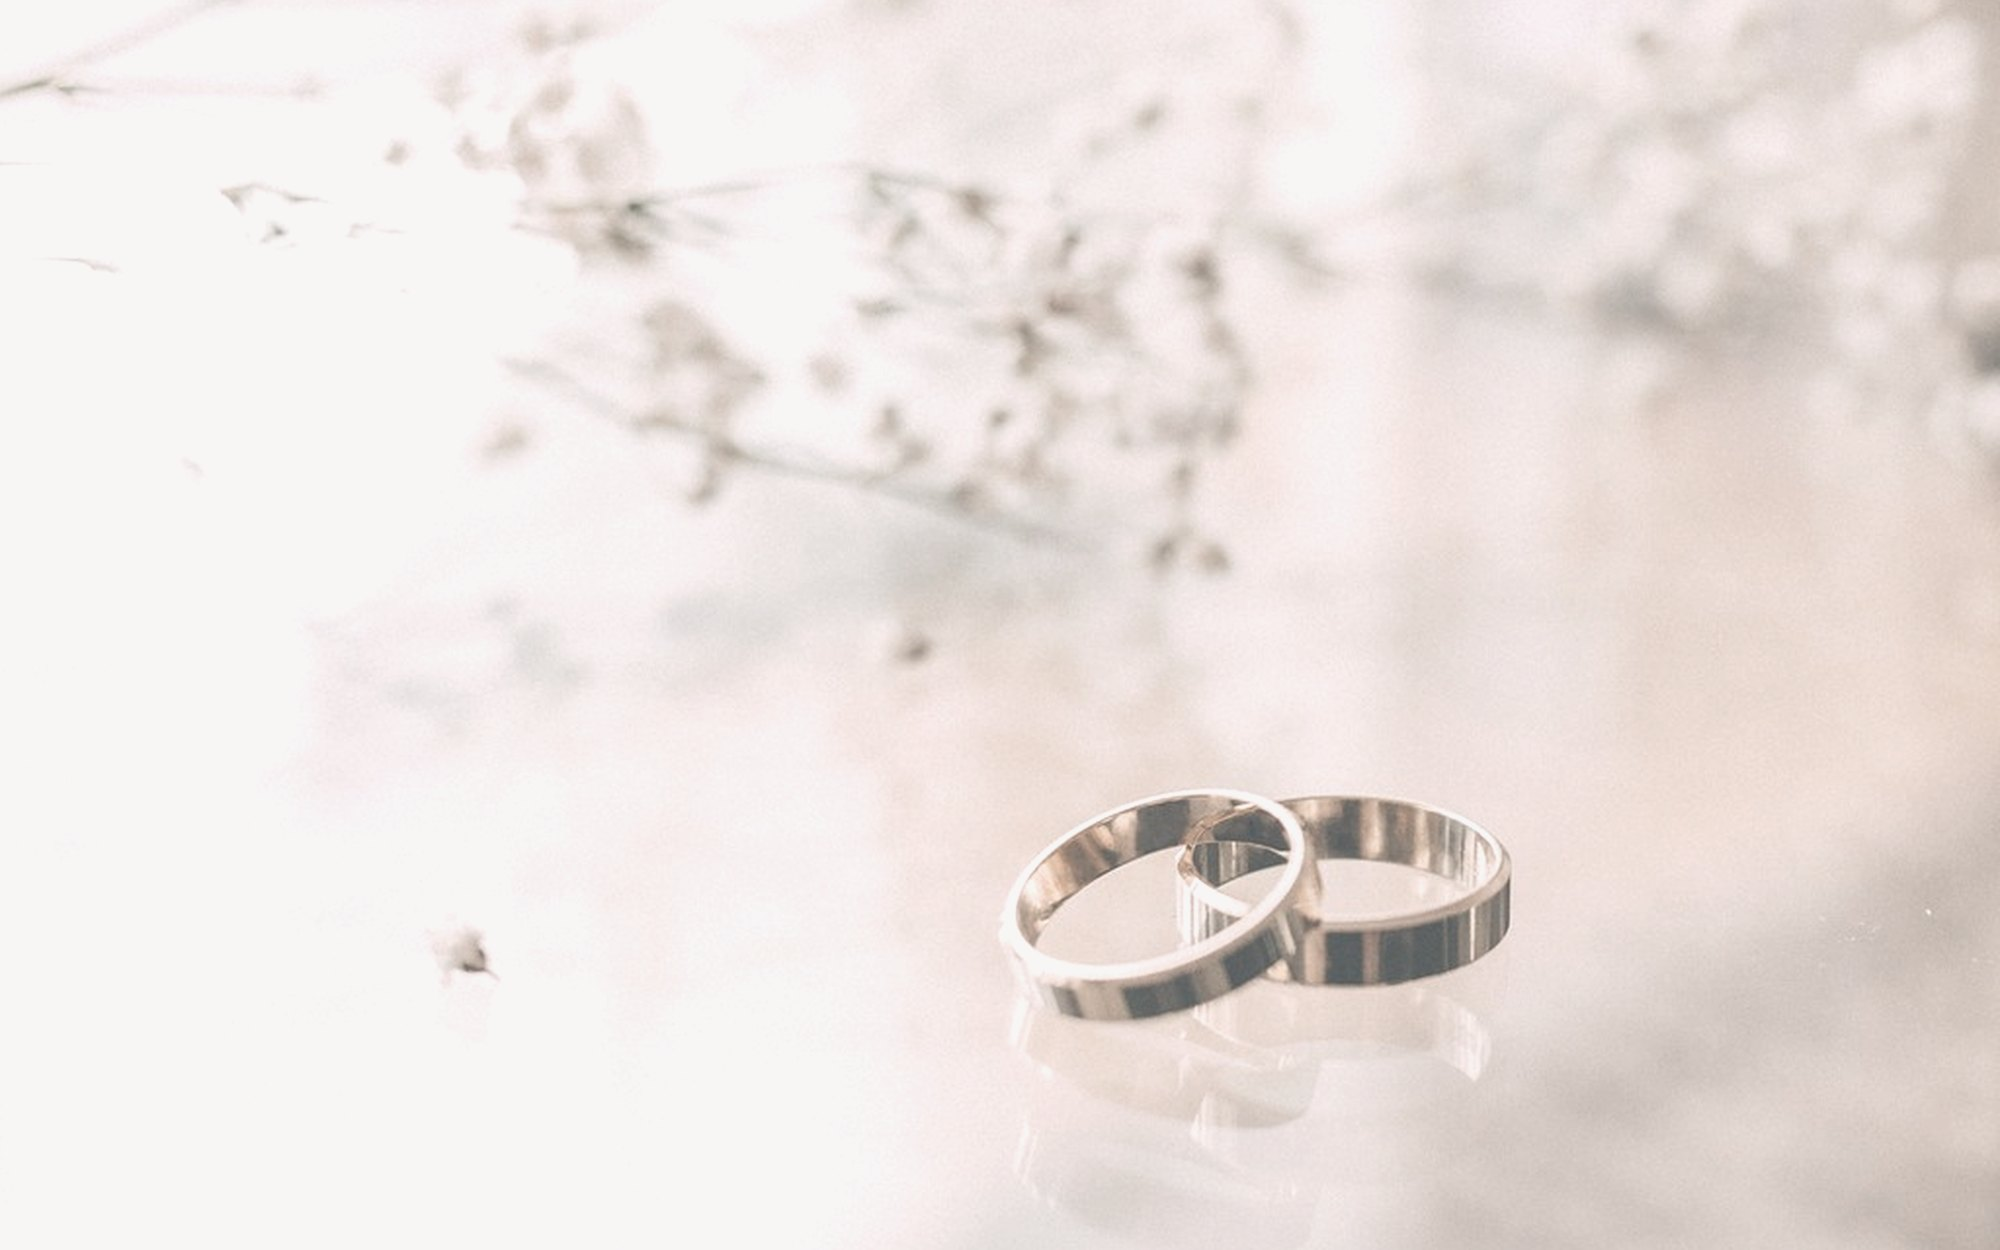
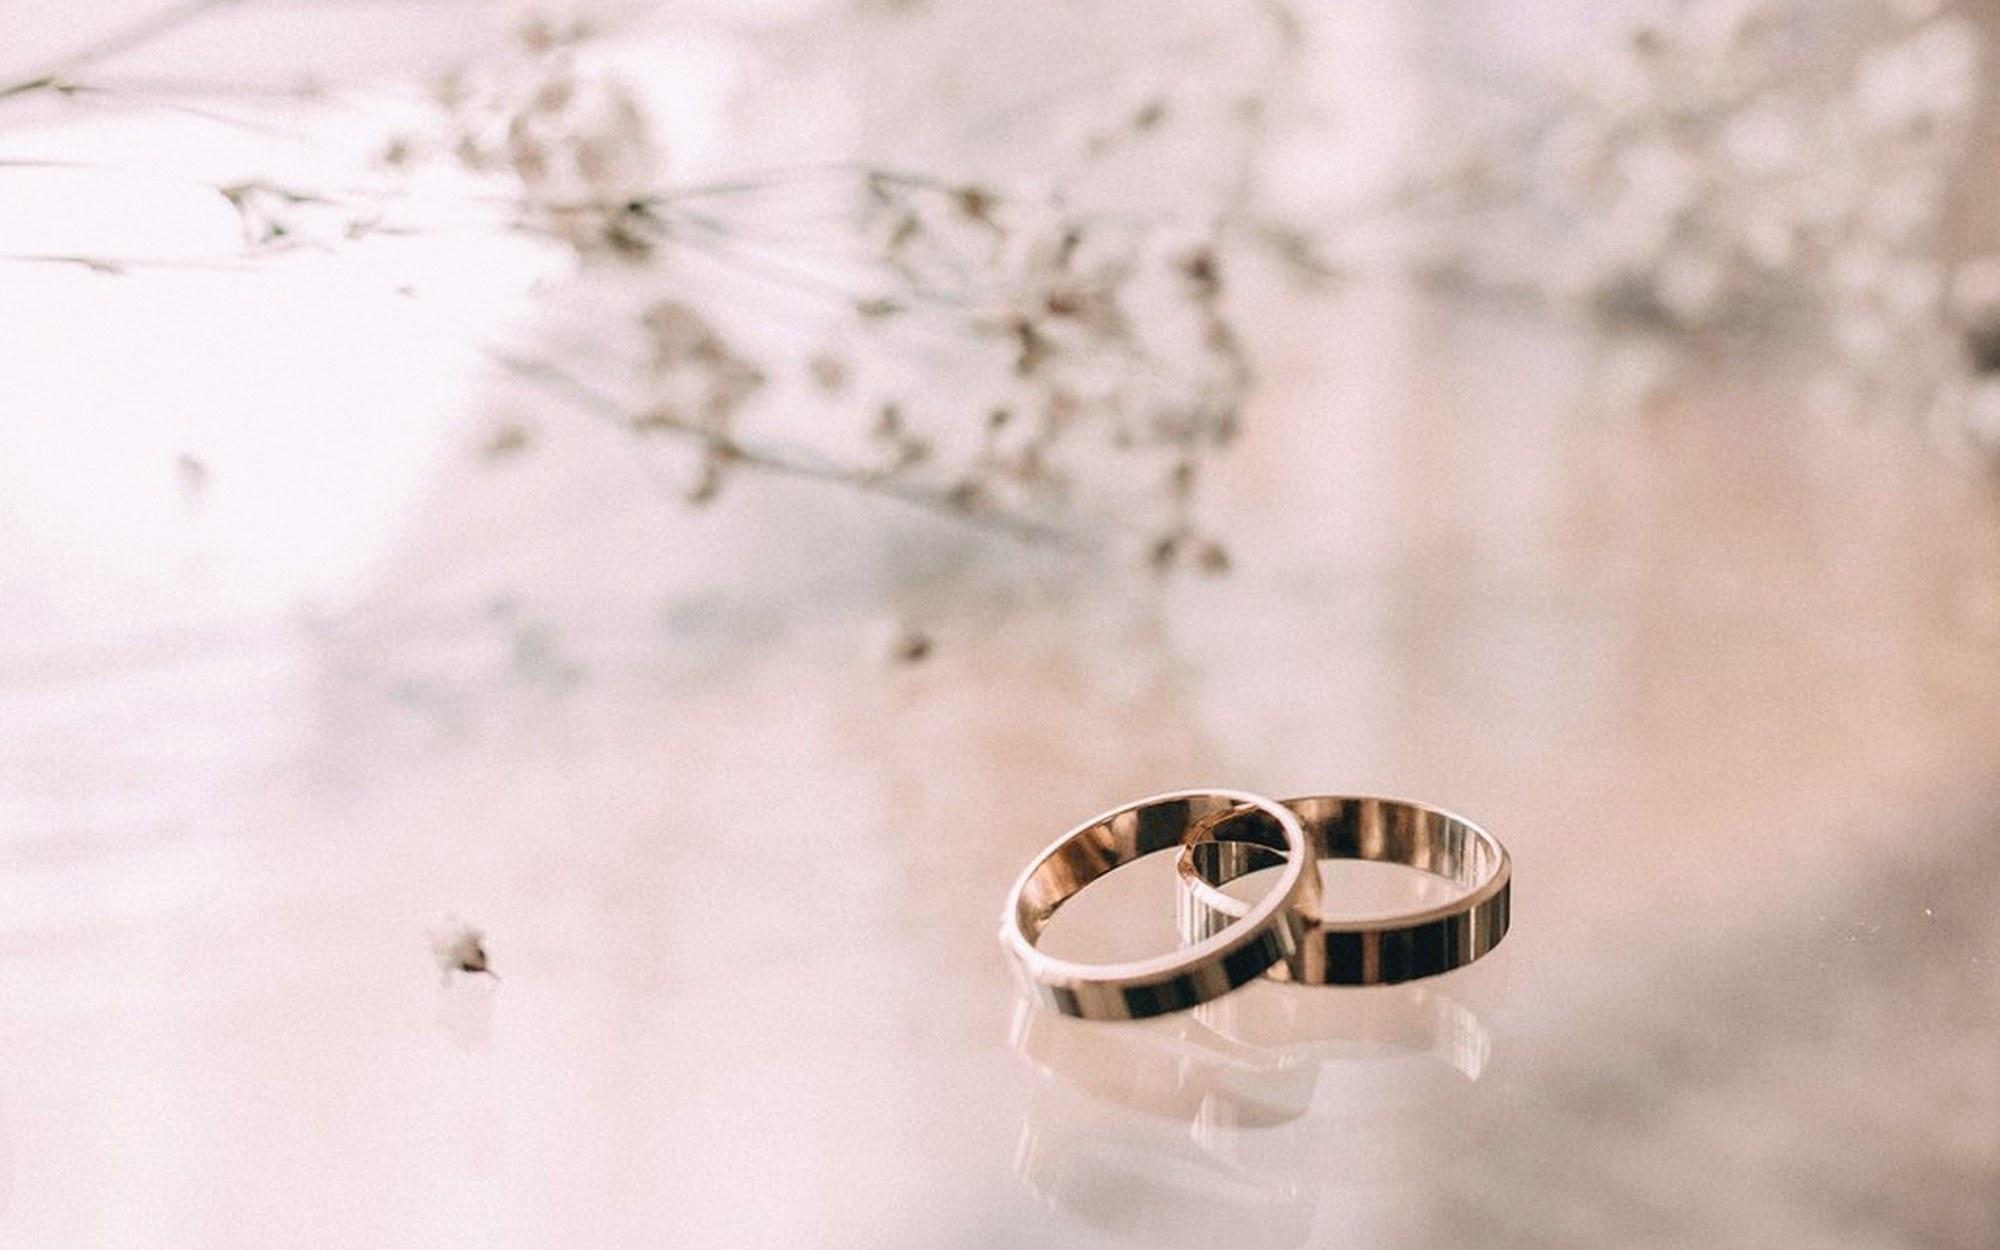
финальный дизайн светлой темы

diff --git a/src/components/pages/home/DressCodeSection.vue b/src/components/pages/home/DressCodeSection.vue
@@ -132,13 +132,8 @@ import dressCode from '@/data/dressCode';
   margin: 28px 0 0;
   padding: 0;
   display: grid;
-  grid-template-columns: repeat(7, minmax(0, 1fr));
-  gap: 6px;
-
-  @media all and (max-width: 420px) {
-    grid-template-columns: repeat(4, minmax(0, 1fr));
-    gap: 10px;
-  }
+  grid-template-columns: repeat(3, minmax(0, 1fr));
+  gap: 16px;
 }
 
 .dress-code__swatch {
@@ -150,20 +145,16 @@ import dressCode from '@/data/dressCode';
 
 .dress-code__chip {
   display: block;
-  height: clamp(86px, 13vw, 128px);
-  // На светлом фоне пастельные образцы почти сливаются с карточкой,
-  // поэтому им нужен заметный контур.
-  border: 1px solid rgba(63, 54, 64, 0.18);
+  aspect-ratio: 1;
+  // Оттенки намеренно блёклые, поэтому форму квадрата держит контур.
+  border: 1px solid rgba(63, 54, 64, 0.16);
 }
 
 .dress-code__name {
-  font-size: 9px;
+  font-size: 9.5px;
+  letter-spacing: 0.04em;
   color: color.$body-text;
   text-align: center;
-  // Длинные названия («Champagne») чуть выходят в межколоночный зазор —
-  // это лучше, чем обрезать их многоточием.
-  white-space: nowrap;
-  overflow: visible;
 }
 
 .dress-code__hint {

diff --git a/src/components/pages/home/HeroSection.vue b/src/components/pages/home/HeroSection.vue
@@ -98,14 +98,15 @@ const { parts } = useCountdown(
   display: block;
 }
 
-// Кремовая вуаль поверх фотографии: снимок остаётся узнаваемым,
-// но уходит на второй план, и тёмная типографика читается поверх него.
+// Вуаль сфокусирована на центре, где лежит текст: под именами она плотная,
+// а к краям сходит почти на нет — так фотография остаётся яркой,
+// но тёмная типографика всё равно читается.
 .hero__veil {
   position: absolute;
   inset: 0;
   background:
-    radial-gradient(ellipse at 50% 46%, rgba(250, 247, 244, 0.82) 0%, rgba(250, 247, 244, 0.42) 58%, rgba(250, 247, 244, 0.2) 100%),
-    linear-gradient(180deg, rgba(250, 247, 244, 0.72) 0%, rgba(250, 247, 244, 0.32) 42%, rgba(246, 236, 232, 0.78) 100%);
+    radial-gradient(ellipse 64% 54% at 50% 45%, rgba(250, 247, 244, 0.82) 0%, rgba(250, 247, 244, 0.46) 58%, rgba(250, 247, 244, 0) 100%),
+    linear-gradient(180deg, rgba(250, 247, 244, 0.46) 0%, rgba(250, 247, 244, 0.06) 40%, rgba(246, 236, 232, 0.44) 100%);
 }
 
 .hero__chapter,

diff --git a/src/components/pages/home/VenueSection.vue b/src/components/pages/home/VenueSection.vue
@@ -111,15 +111,15 @@ const copyAddress = async () => {
   height: 100%;
   object-fit: cover;
   display: block;
-  filter: saturate(0.38) brightness(1.0) contrast(0.96);
+  filter: saturate(0.72) brightness(0.98) contrast(1.04);
 }
 
 .venue__veil {
   position: absolute;
   inset: 0;
   background:
-    radial-gradient(ellipse at 34% 42%, rgba(250, 247, 244, 0.7) 0%, rgba(250, 247, 244, 0.34) 58%, rgba(250, 247, 244, 0.12) 100%),
-    linear-gradient(180deg, rgba(250, 247, 244, 0.72) 0%, rgba(250, 247, 244, 0.3) 45%, rgba(246, 236, 232, 0.72) 100%);
+    linear-gradient(90deg, rgba(250, 247, 244, 0.7) 0%, rgba(250, 247, 244, 0.48) 44%, rgba(250, 247, 244, 0.24) 78%, rgba(250, 247, 244, 0.2) 100%),
+    linear-gradient(180deg, rgba(250, 247, 244, 0.3) 0%, rgba(250, 247, 244, 0.04) 36%, rgba(250, 247, 244, 0.26) 62%, rgba(246, 236, 232, 0.5) 100%);
 }
 
 .venue__top {
@@ -139,7 +139,7 @@ const copyAddress = async () => {
 }
 
 .venue__region {
-  margin: 18px 0 0;
+  margin: 28px 0 0;
   font-size: 9.5px;
   font-weight: 500;
   letter-spacing: 0.3em;
@@ -260,6 +260,6 @@ const copyAddress = async () => {
   margin: 8px 0 0;
   font-size: 13px;
   line-height: 1.7;
-  color: color.$body-text;
+  color: color.$ink;
 }
 </style>

diff --git a/src/data/dressCode.ts b/src/data/dressCode.ts
@@ -1,13 +1,14 @@
 import type { DressCodeColor } from '@/types/wedding';
 
+// Шесть приглушённых пастельных оттенков — сетка 3×2 в карточке «Палитра вечера».
+// Тона намеренно выбелены: это ориентир по настроению, а не точный образец краски.
 const dressCode: DressCodeColor[] = [
-  { hex: '#f4d9de', name: 'Blush' },
-  { hex: '#e9c7cd', name: 'Rose' },
-  { hex: '#d3e3f0', name: 'Powder' },
-  { hex: '#dcebf4', name: 'Ice' },
-  { hex: '#dbe4d6', name: 'Sage' },
-  { hex: '#ecdfc8', name: 'Champagne' },
-  { hex: '#e0d5e8', name: 'Lilac' },
+  { hex: '#f6e4e6', name: 'Blush' },
+  { hex: '#efd8db', name: 'Rose' },
+  { hex: '#e1eaf1', name: 'Powder' },
+  { hex: '#e6ebe0', name: 'Sage' },
+  { hex: '#f1e7d7', name: 'Champagne' },
+  { hex: '#e9e1ec', name: 'Lilac' },
 ];
 
 export default dressCode;

diff --git a/src/components/layout/SiteFooter.vue b/src/components/layout/SiteFooter.vue
@@ -111,8 +111,8 @@ const shareInvitation = async () => {
   position: absolute;
   inset: 0;
   background:
-    radial-gradient(ellipse at 50% 50%, rgba(250, 247, 244, 0.84) 0%, rgba(250, 247, 244, 0.46) 58%, rgba(250, 247, 244, 0.26) 100%),
-    linear-gradient(180deg, rgba(246, 236, 232, 0.78) 0%, rgba(250, 247, 244, 0.42) 45%, rgba(250, 247, 244, 0.8) 100%);
+    radial-gradient(ellipse 60% 52% at 50% 48%, rgba(250, 247, 244, 0.84) 0%, rgba(250, 247, 244, 0.48) 58%, rgba(250, 247, 244, 0) 100%),
+    linear-gradient(180deg, rgba(246, 236, 232, 0.5) 0%, rgba(250, 247, 244, 0.08) 45%, rgba(250, 247, 244, 0.5) 100%);
 }
 
 .site-footer__content {

diff --git a/src/components/layout/SiteHeader.vue b/src/components/layout/SiteHeader.vue
@@ -6,8 +6,8 @@ import { BRIDE_NAME, GROOM_NAME } from '@/data/weddingConfig';
 
 const links = [
   { href: '#story', label: 'История' },
-  { href: '#program', label: 'Программа' },
   { href: '#venue', label: 'Место' },
+  { href: '#program', label: 'Программа' },
   { href: '#dresscode', label: 'Дресс-код' },
 ];
 

diff --git a/src/components/pages/home/ProgramTimeline.vue b/src/components/pages/home/ProgramTimeline.vue
@@ -73,7 +73,7 @@ const pad = (value: number) => String(value).padStart(2, '0');
   grid-template-columns: 34px 62px minmax(0, 1fr) 10px;
   align-items: baseline;
   gap: 16px;
-  padding: 26px 0;
+  padding: 26px 16px;
   border-bottom: 1px solid color.$line;
   transition: background transition.$fast;
 

diff --git a/src/style/global.scss b/src/style/global.scss
@@ -194,7 +194,7 @@ a {
   letter-spacing: 0.3em;
   text-transform: uppercase;
   color: color.$accent;
-  margin: 0 0 22px;
+  margin: 0 0 12px;
 }
 
 .display {
